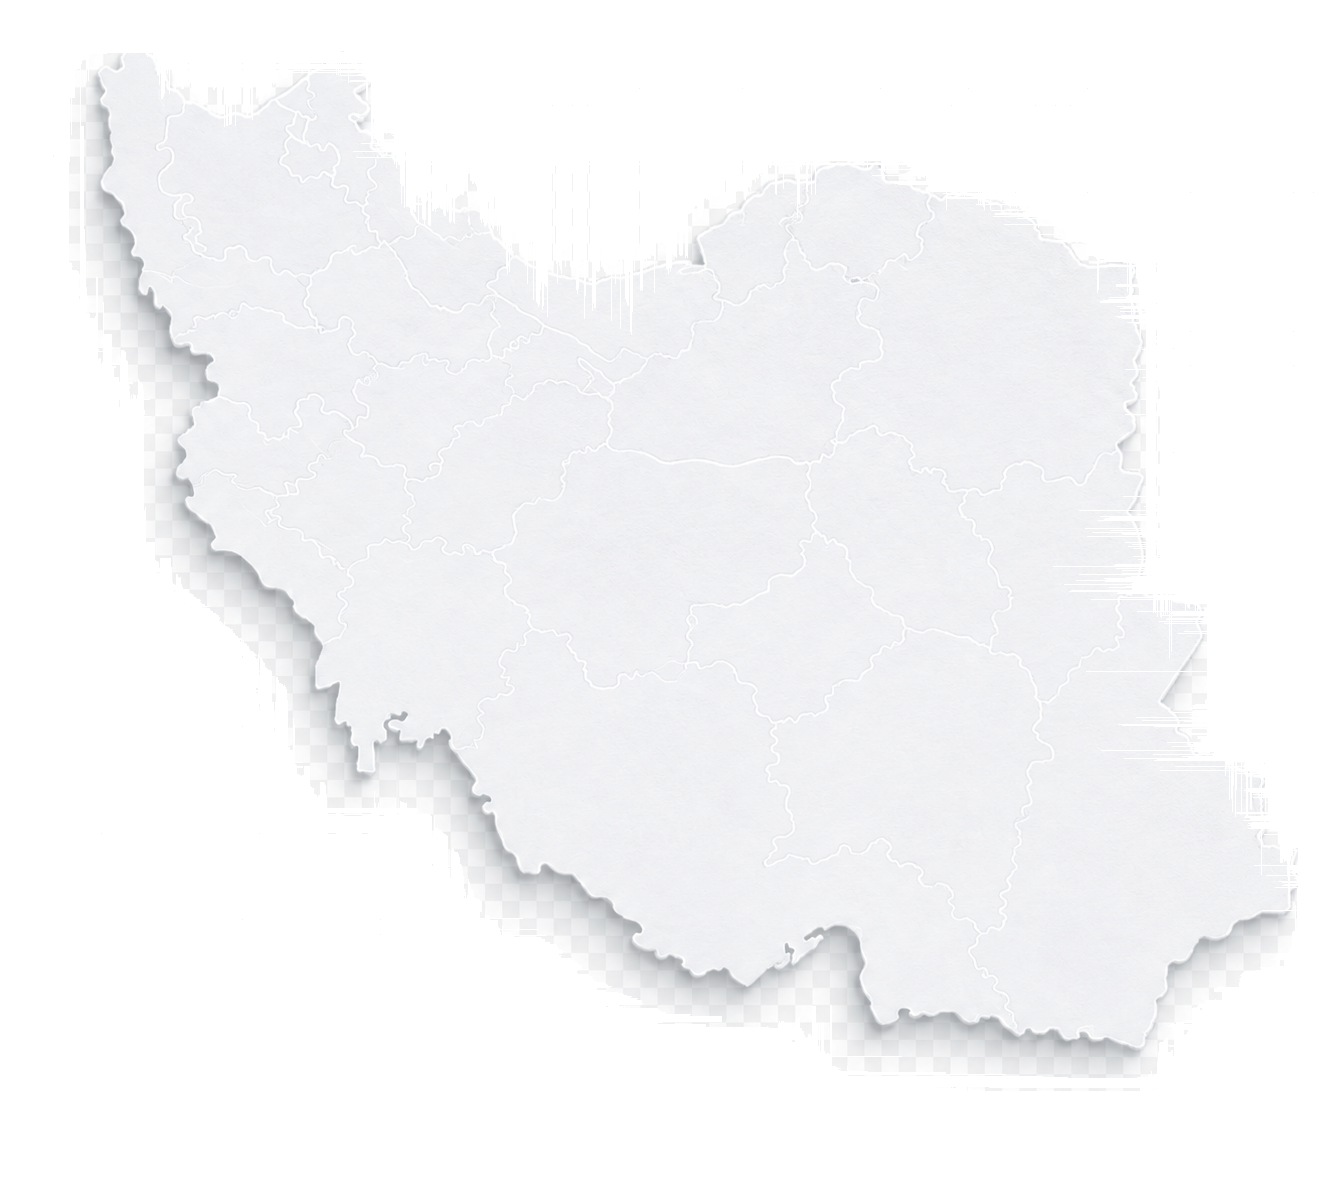
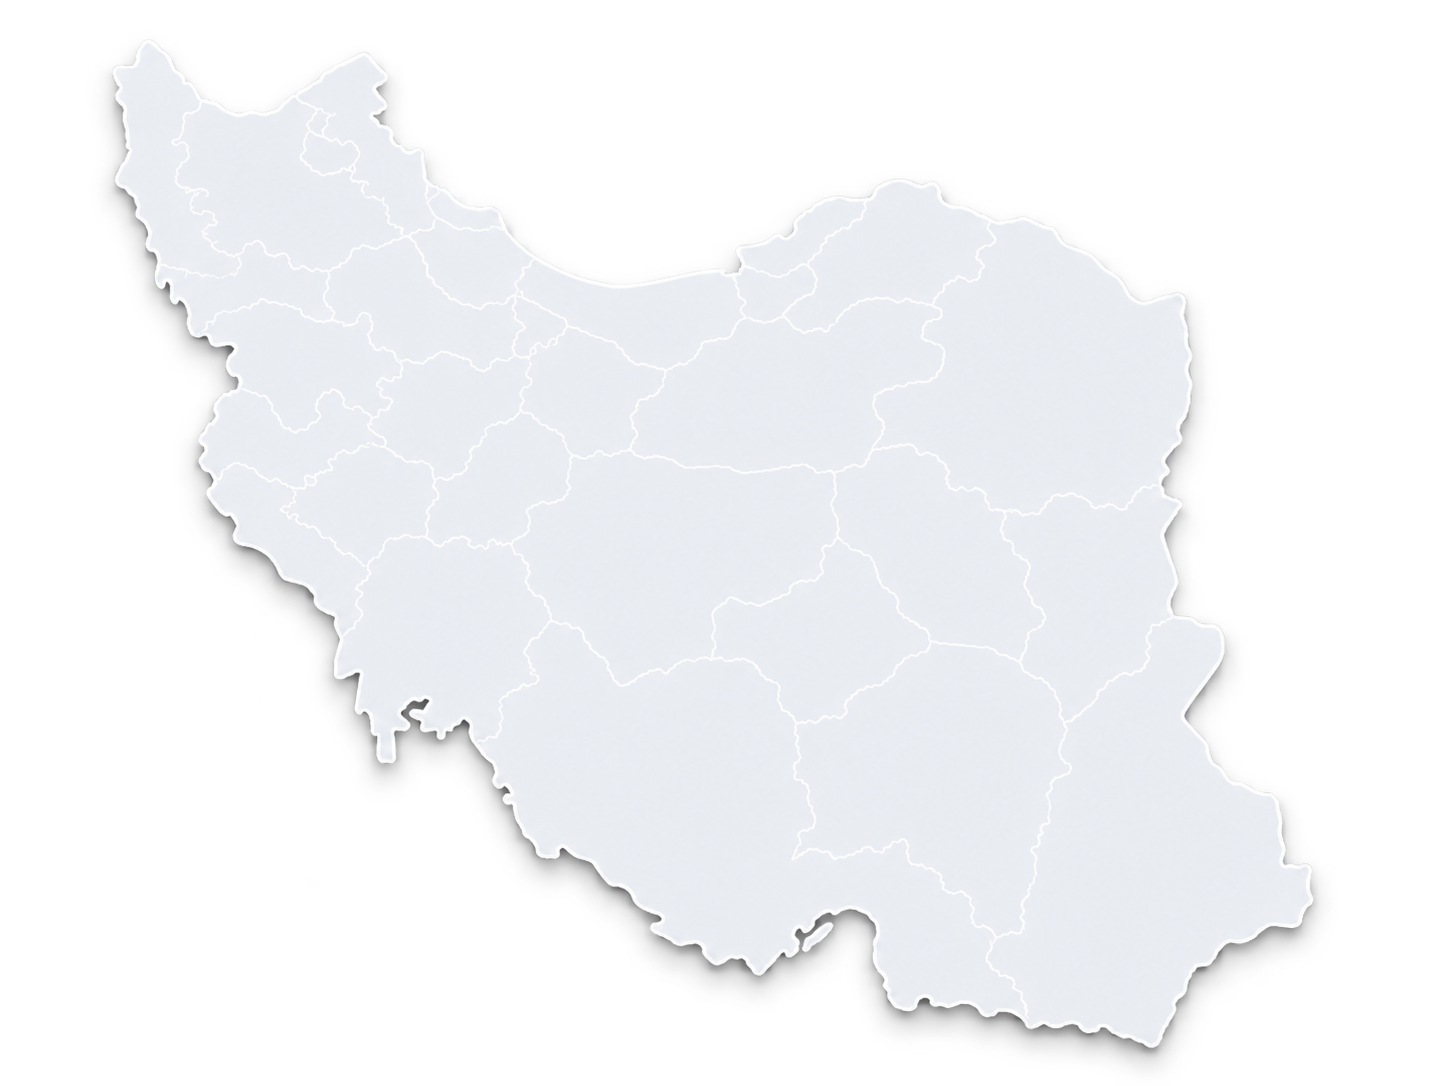
fix: massively improved the first page, before adding dots in ir-map

diff --git a/src/features/report-preview/pages/_report-page-01.scss b/src/features/report-preview/pages/_report-page-01.scss
@@ -27,18 +27,19 @@
 }
 
 .cover-decoration--rings {
-  top: 245px;
-  left: -220px;
-  width: 420px;
-  height: 420px;
+  top: 130px;
+  left: -180px;
+  width: 300px;
+  height: 300px;
   border-radius: 50%;
   background: repeating-radial-gradient(
     circle,
-    transparent 0 19px,
-    #cfd4da 20px 21px,
-    transparent 22px 40px
+    transparent 0 10px,
+    #cfd4da 11px 12px,
+    transparent 13px 22px
   );
-  opacity: 0.55;
+  mask-image: radial-gradient(circle, #000 0%, transparent 100%);
+  opacity: 0.4;
 }
 
 .cover-decoration--waves {
@@ -58,12 +59,15 @@
 
 .cover-status {
   position: absolute;
-  top: 49px;
+  top: 51px;
   left: 38px;
-  width: 171px;
-  padding: 16px 12px 17px;
+  display: flex;
+  width: 168px;
+  height: 60px;
+  align-items: center;
+  justify-content: center;
   color: #fff;
-  font-size: 22px;
+  font-size: 20px;
   font-weight: 800;
   line-height: 1;
   text-align: center;
@@ -75,30 +79,36 @@
 
 .cover-status::after {
   position: absolute;
-  right: 31px;
-  bottom: 10px;
-  width: 84px;
+  right: 30px;
+  bottom: 12px;
+  width: 108px;
   height: 1px;
-  background: linear-gradient(90deg, transparent, var(--cover-green));
+  background: linear-gradient(
+    90deg,
+    transparent,
+    var(--cover-green) 18%,
+    var(--cover-green) 82%,
+    transparent
+  );
   content: '';
 }
 
 .cover-brand {
   position: absolute;
-  top: 53px;
+  top: 30px;
   left: 50%;
   display: flex;
-  width: 124px;
+  width: 130px;
   align-items: center;
   color: var(--cover-navy);
   flex-direction: column;
+  text-decoration: none;
   transform: translateX(-50%);
 }
 
 .cover-brand img {
-  width: 138px;
-  height: 97px;
-  object-fit: contain;
+  width: 130px;
+  height: 138px;
 }
 
 .cover-heading {
@@ -112,23 +122,34 @@
 
 .cover-heading h1 {
   margin: 0;
-  font-size: 66px;
+  font-size: 94px;
   font-weight: 900;
   letter-spacing: 0;
-  line-height: 1.25;
+  line-height: 1.24;
 }
 
-.cover-heading h1 span,
+.cover-heading__monthly,
+.cover-heading__market,
 .cover-heading p span {
   display: block;
 }
 
+.cover-heading__monthly {
+  transform: translate(7px, 4px) scaleY(0.97);
+  transform-origin: center top;
+}
+
+.cover-heading__market {
+  transform: translateY(-7px) scale(1.04, 1.055);
+  transform-origin: center top;
+}
+
 .cover-period {
   display: flex;
-  width: 228px;
+  width: 190px;
   align-items: center;
   justify-content: space-between;
-  margin: 16px auto 0;
+  margin: 0 auto;
   color: var(--cover-green);
 }
 
@@ -149,29 +170,29 @@
   font-size: 17px;
   font-weight: 450;
   line-height: 1.8;
+  transform: scaleX(0.96);
 }
 
 .cover-map {
   position: absolute;
-  top: 525px;
-  left: 118px;
-  width: 560px;
-  height: 430px;
+  top: 522px;
+  left: 100px;
+  width: 610px;
+  height: 502px;
 }
 
 .cover-map > img {
   width: 100%;
   height: 100%;
   mix-blend-mode: multiply;
-  object-fit: contain;
-  filter: drop-shadow(-7px 11px 8px rgb(52 70 84 / 22%));
+  filter: drop-shadow(-5px 9px 7px rgb(52 70 84 / 18%));
 }
 
 .cover-footer {
   position: absolute;
-  right: 92px;
-  bottom: 27px;
-  left: 92px;
+  right: 156px;
+  bottom: 22px;
+  left: 156px;
   color: var(--cover-navy);
 }
 
@@ -180,6 +201,7 @@
   align-items: center;
   direction: ltr;
   justify-content: space-between;
+  transform: translateX(5px);
 }
 
 .cover-feature {
@@ -217,6 +239,10 @@
   text-align: right;
 }
 
+.cover-feature:last-child > div {
+  text-align: left;
+}
+
 .cover-feature strong {
   font-size: 12px;
   font-weight: 800;
@@ -229,12 +255,16 @@
   font-weight: 450;
 }
 
+.cover-feature:nth-child(2) div span {
+  text-align: left;
+}
+
 .cover-feature__separator {
   position: absolute;
-  top: 1px;
-  left: -25px;
-  width: 2px;
-  height: 38px;
+  top: 3px;
+  left: -18px;
+  width: 1.5px;
+  height: 34px;
   background: var(--cover-green);
   opacity: 0.72;
 }
@@ -244,19 +274,16 @@
   align-items: center;
   justify-content: center;
   margin-top: 23px;
-  gap: 14px;
   direction: ltr;
 }
 
-.cover-website span {
-  font-family: Arial, sans-serif;
+.cover-website a {
+  color: inherit;
+  font-family: 'Vazirmatn Variable', sans-serif;
   font-size: 16px;
-  font-weight: 800;
-  letter-spacing: -0.4px;
-}
-
-.cover-website i {
-  display: none;
+  font-weight: 650;
+  letter-spacing: -0.2px;
+  text-decoration: none;
 }
 
 @media print {

diff --git a/src/features/report-preview/pages/ReportPage01.jsx b/src/features/report-preview/pages/ReportPage01.jsx
@@ -1,5 +1,5 @@
-import iranRelief from '../assets/iran-relief.png'
-import melkRadarLockup from '../assets/melkradar-lockup.svg'
+import iranRelief from '../assets/iran-white.png'
+import melkRadarLockup from '../assets/melkradar-lockup.png'
 
 const toPersianDigits = (value) =>
   String(value).replace(/\d/g, (digit) => '۰۱۲۳۴۵۶۷۸۹'[Number(digit)])
@@ -30,9 +30,8 @@ function TargetIcon() {
 function SmartDecisionIcon() {
   return (
     <svg viewBox="0 0 48 48" aria-hidden="true">
-      <path d="M6 41h37" />
-      <path d="M11 36V25h7v11M22 36V17h7v19M33 36V9h7v27" />
-      <path className="accent" d="m10 20 8-6 9 3 12-10" />
+      <path d="M8 39h32" />
+      <path d="M10 36V28h7v8M20 36V21h7v15M30 36V12h7v24" />
     </svg>
   )
 }
@@ -40,7 +39,7 @@ function SmartDecisionIcon() {
 const featureItems = [
   {
     title: 'دادههای واقعی',
-    text: 'از آگهیهای ملک رادار',
+    text: 'از آگهیهای ملکرادار',
     Icon: DatabaseIcon,
   },
   {
@@ -68,14 +67,20 @@ function ReportPage01({ data }) {
 
       <div className="cover-status">تعلیق در بازار</div>
 
-      <div className="cover-brand" aria-label="ملک رادار">
-        <img src={melkRadarLockup} alt="ملک رادار" />
-      </div>
+      <a
+        className="cover-brand"
+        href="https://melkradar.com"
+        target="_blank"
+        rel="noopener noreferrer"
+        aria-label="مشاهده وبسایت ملکرادار"
+      >
+        <img src={melkRadarLockup} alt="ملکرادار" />
+      </a>
 
       <header className="cover-heading">
         <h1>
-          گزارش ماهانه
-          <span>بازار مسکن</span>
+          <span className="cover-heading__monthly">گزارش ماهانه</span>
+          <span className="cover-heading__market">بـازار مـسکـن</span>
         </h1>
 
         <div className="cover-period">
@@ -86,7 +91,7 @@ function ReportPage01({ data }) {
 
         <p>
           بررسی روند قیمت فروش، اجاره و نسبت اجاره به فروش
-          <span>در مناطق تحت پوشش ملک رادار</span>
+          <span>در مناطق تحت پوشش ملکرادار</span>
         </p>
       </header>
 
@@ -108,8 +113,13 @@ function ReportPage01({ data }) {
           ))}
         </div>
         <div className="cover-website">
-          <span>melkradar.com</span>
-          <i aria-hidden="true" />
+          <a
+            href="https://melkradar.com"
+            target="_blank"
+            rel="noopener noreferrer"
+          >
+            melkradar.com
+          </a>
         </div>
       </footer>
     </article>
